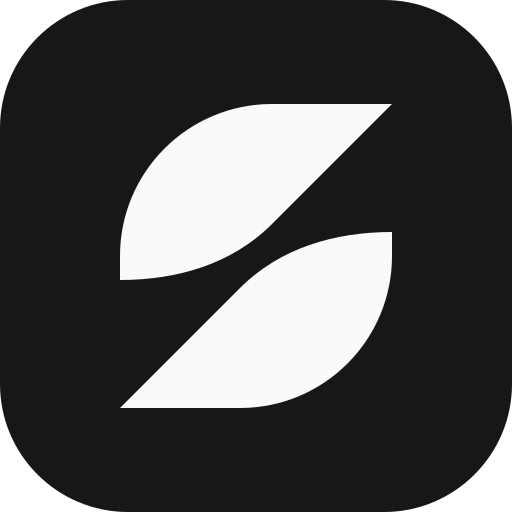
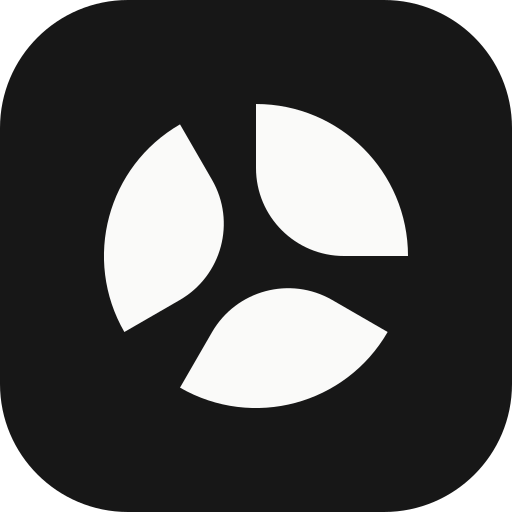
Redesign SpaceYew mark as three open paper planes

Changed region(s): [[0.1875, 0.1875, 0.8125, 0.8125]]

diff --git a/src/lib/brand-icon.ts b/src/lib/brand-icon.ts
@@ -1,2 +1,2 @@
 // Generated by npm run brand:icons; the content hash invalidates cached metadata assets.
-export const brandIconUrl='/icon.svg?v=1af753a1aeae';
+export const brandIconUrl='/icon.svg?v=4dbb0056688a';

diff --git a/docs/blog-editor.zh-CN.md b/docs/blog-editor.zh-CN.md
@@ -45,7 +45,7 @@
 打开属性或从预览返回会保留当前画布位置。新增自定义元素出现在当前视野内；「整齐排版」沿用当前视觉顺序、保留跟随贴纸并尊重锁定栏目，自由布局调整页面宽度时保留相对分栏。电脑预览按整张设计缩放，含页面外侧的点缀；手机预览改为便于阅读的顺序排版。自动测量内容高度不会误报为未保存修改。
 
 
-贴纸可直接拖动本体或标签，双击文字进入原位编辑，也可在属性面板改字。拖动保留已测量尺寸与内容，避免每次移动时隐藏并重新测量；跟随贴纸在拖动过程中也会随栏目移动。点阵随缩放保持清晰的屏幕间距，仅在编辑工作区出现。顶栏复用网站 SY 标识，属性标题在滚动时固定。
+贴纸可直接拖动本体或标签，双击文字进入原位编辑，也可在属性面板改字。拖动保留已测量尺寸与内容，避免每次移动时隐藏并重新测量；跟随贴纸在拖动过程中也会随栏目移动。点阵随缩放保持清晰的屏幕间距，仅在编辑工作区出现。顶栏复用网站图形标识，属性标题在滚动时固定。
 
 
 贴纸侧栏适度加宽，搜索和分类固定，只有结果区滚动。手机端使用可关闭的素材面板显示真实缩略图，添加后回到画布。属性面板先展示可编辑内容，再展示坐标与样式；中间尺寸改为可关闭浮层，为画布保留空间。底部工具栏使用独立操作带，不覆盖页面正文。
@@ -85,7 +85,7 @@
 
 动效面板可开启技能跑马灯和页首入场。跑马灯使用本人技能内容，提供暂停/继续按钮，悬停或键盘聚焦时暂停，离屏和隐藏标签页时停止；系统减少动态效果时改为静态换行列表。编辑画布中的技能文字始终静止。页首入场仅处理头像与标题，不重复动画每个正文栏目。
 
-站点图标改为无字母的「折叠空间」抽象图形，SVG、favicon、Apple 图标和 PNG 统一由同一源文件生成。
+站点图标改为无字母的「展页」抽象图形（三片圆角纸页围合中心留白），SVG、favicon、Apple 图标和 PNG 统一由同一源文件生成。
 
 主题交互动效位于「切换样式 → 动效」，默认开启，可独立关闭。原版使用细线导航；铅笔手绘使用笔划下划线与纸页菜单；清新文档使用快速绿色反馈；薄荷书页使用居中细线与缓慢图片取景；深夜唱片使用封面聚焦与按压反馈；孟菲斯使用几何旋转和错位按压；深空终端使用分段扫描与信号描边。键盘聚焦也可触发对应反馈。菜单展开与栏目锚点定位使用有限次动效，不增加持续循环，编辑画布和减少动态效果模式保持静止。
 

diff --git a/docs/blog-editor.md b/docs/blog-editor.md
@@ -81,7 +81,7 @@ The visual themes also include Memphis (cream, bold geometry and playful color) 
 
 Switch styles now includes Typography and Motion alongside themes and page layouts. Chinese and Latin faces can be chosen independently with a bilingual specimen. Bundled OFL fonts are self-hosted; see `public/fonts/README.md` for provenance. Theme default restores the inherited type; authored stickers keep their own lettering. Draft persistence, undo, preview and reviewed publication use the same settings.
 
-Skills marquee uses the member's own skills and provides pause/resume, hover/focus pause, offscreen/hidden-tab suspension and a reduced-motion static wrapping list. Skill editing stays still. The optional header entrance animates only the portrait and title. The letter-free folded-space brand symbol generates SVG, ICO, Apple and PNG assets from a single source.
+Skills marquee uses the member's own skills and provides pause/resume, hover/focus pause, offscreen/hidden-tab suspension and a reduced-motion static wrapping list. Skill editing stays still. The optional header entrance animates only the portrait and title. The letter-free open-pages brand symbol generates SVG, ICO, Apple and PNG assets from a single source.
 
 Theme interactions are available under Style → Motion and can be disabled independently. Original uses fine navigation rules; Pencil uses drawn rules and paper menus; Mint docs uses quick green feedback; Mint editorial uses centered rules and slow photo reframing; Night record uses cover focus and tactile presses; Memphis uses geometric turns and offset presses; Volt terminal uses stepped scans and signal outlines. Keyboard focus receives matching feedback. Menus and anchor targets use bounded animations, with no additional loops. Editing and reduced-motion modes stay stationary.
 

diff --git a/docs/README.md b/docs/README.md
@@ -28,7 +28,7 @@ The current editor uses Anx Portfolio and supports original, English and Chinese
 | Platform/admin deployment / 分入口部署 | [Deployment](../deploy/README-split.en.md) | [部署说明](../deploy/README-split.md) |
 | Moderation and launch / 审核与上线 | [Launch checklist](moderation-and-launch.md) | 同页含中文说明 |
 | Scoped audit and validation / 审计与验证 | [2026-10-22 audit](audit-2026-10-22.md) | 同页含中文说明 |
-| SY identity and generated icons / SY 标识与图标生成 | [Brand assets](brand.md) | 英文技术说明 |
+| SpaceYew identity and generated icons / 站点标识与图标生成 | [Brand assets](brand.md) | 英文技术说明 |
 | Third-party attribution / 第三方署名 | [Notices](../THIRD_PARTY_NOTICES.md) | 以原始许可条款为准 |
 
 Public registration and production publishing remain gated. Local rule screening is triage, not a compliance certificate. There is no public production demo URL at present. Application data, real résumé sources and user media belong in private storage; macOS and Windows clients are outside this repository.

diff --git a/docs/brand.md b/docs/brand.md
@@ -1,6 +1,6 @@
 # SpaceYew brand assets
 
-The SpaceYew symbol is an original SY monogram drawn as SVG paths on an ink rounded square. The source of truth is `src/app/icon.svg`; the SpaceYew wordmark keeps the website’s editorial serif type. Portfolio illustrations, résumé images, certificates and test screenshots are content, not reusable brand assets.
+The SpaceYew symbol is an original letter-free “Open pages” symbol: three rounded paper planes rotate around a central negative space on an ink rounded square. The source of truth is `src/app/icon.svg`; the SpaceYew wordmark keeps the website’s editorial serif type. Portfolio illustrations, résumé images, certificates and test screenshots are content, not reusable brand assets.
 
 Run `npm run brand:icons` after changing the SVG. `scripts/brand-icons.mjs` uses Sharp to deterministically generate `src/app/favicon.ico` (16, 32 and 48 px), `src/app/apple-icon.png` (180 px) and `public/brand/spaceyew-icon.png` (512 px). PNG exports include an origin note; no image generation model is involved.
 
